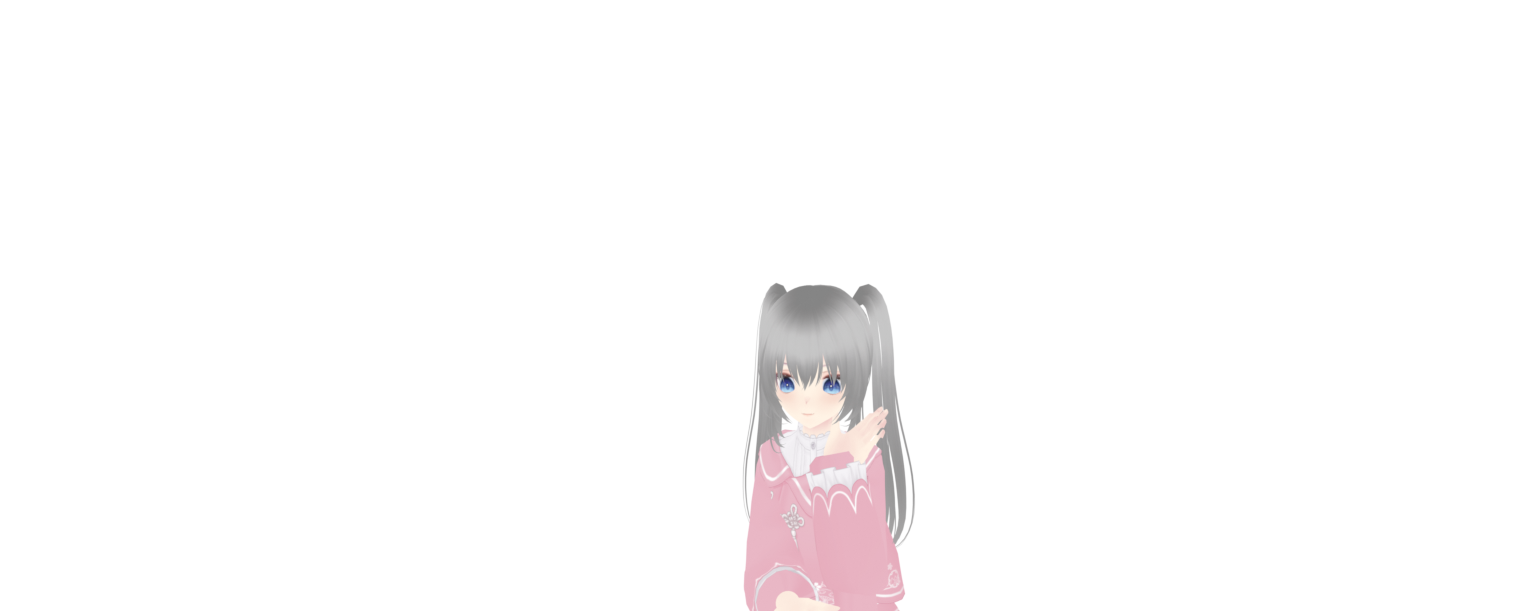
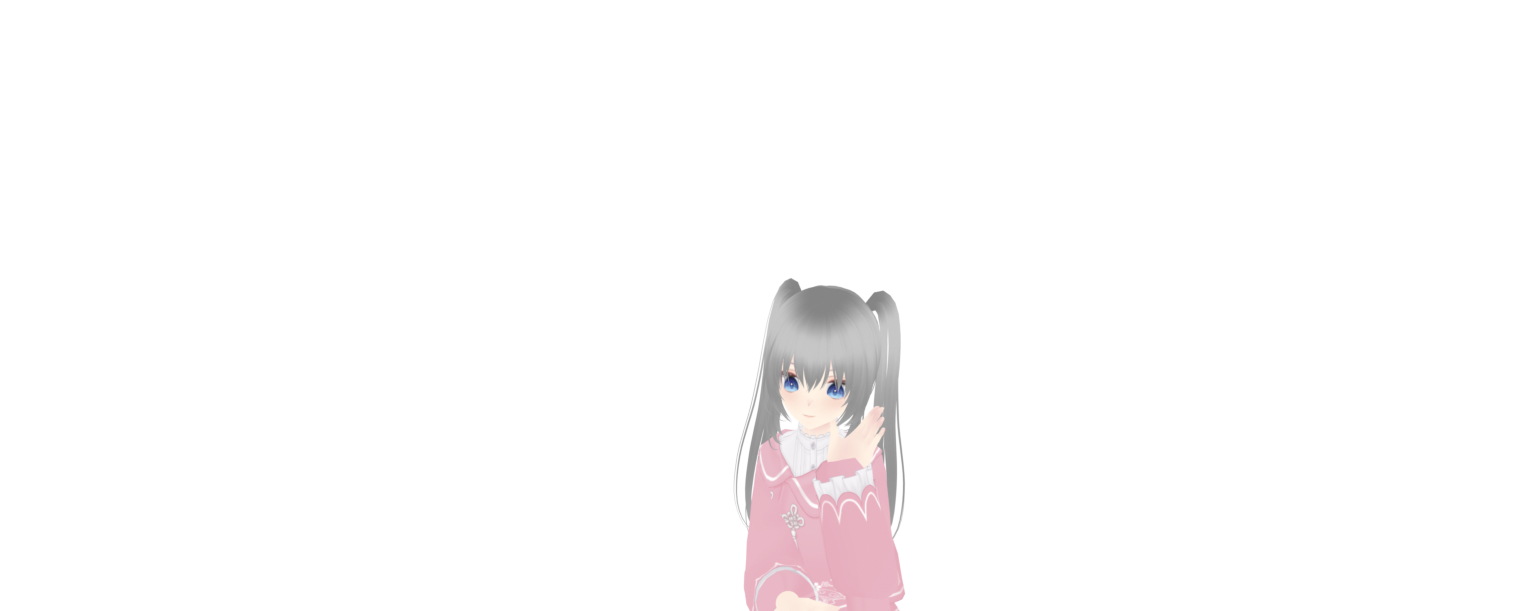
钉住托腮素材和代码的一致性
1× 兼容那两张上半身停在 CHIN_* 定稿前的参数上（2× 发布集是新的，
逐字节相同）。回退路径因此会画出另一个姿势。

- chin_check.py 补一条：这次渲的终态 vs Assets 里那张，结构性差分必须为 0。
  拿旧素材试过报 3461，判据抓得住
- leg_frames.py --chin-only：只重出近景那两张 1×，不动腿和常态上半身
- CloseUpStrip.cellW 330 → 720（普通窗口的最小宽度）。330 太小，
  气泡被 penned 夹到她脸上，判据报的是真实窗口里不可能发生的毛病
- 记下松拳托腮那一族做不出来：六个变体全部压到眼睛（可见顶点 98…207，
  p03 是 0），是机位的几何上限，不是参数没调好

Changed region(s): [[0.4688, 0.4354, 0.5938, 0.9018]]

diff --git a/Sources/WithSnozzy/App/Snapshot.swift b/Sources/WithSnozzy/App/Snapshot.swift
@@ -1701,7 +1701,14 @@ private struct CloseUpStrip: View {
     let headphones: Bool
 
     /// 每格画多宽。窗口是 3:2，按这个宽度反推高度。
-    private static let cellW: CGFloat = 330
+    ///
+    /// **必须是真实窗口能达到的最小宽度**（`WindowMode.normal.minimumSize`
+    /// 的 720），不能为了出图小就随手给 330。气泡和摸头热区是按窗口尺寸
+    /// 算位置再被 `SceneCamera.penned` 夹进窗口的，格子一小，夹取就把气泡
+    /// 压到她脸上——判据于是报出一个真实窗口里**不可能发生**的毛病。
+    /// 反过来也一样：格子给大了，只在小窗口才露的毛病就照不出来。
+    /// 和第 69 条同一个道理，判据画的必须是真的会上屏的那个尺寸。
+    private static let cellW: CGFloat = 720
     /// nil 是真实常态，-1 是发布的 2× 常态起点，随后八张中间帧和终态。
     private static let samples: [Int?] = [nil, -1]
         + (0...CloseUp.transitionFrames).map(Optional.some)

diff --git a/Scripts/leg_frames.py b/Scripts/leg_frames.py
@@ -106,6 +106,67 @@ def chin_seam(chin_path, ref_path, desk_path, seam):
     return max(seam, min(row, int(ys.max()) + 1))
 
 
+def chin_only(a, seam):
+    """只重出近景那两张 1× 上半身，腿和常态上半身原样不动。
+
+    改了 `pose.CHIN_*` 之后，需要重出的只有托腮那几张——`settle` 没变，
+    腿、常态上半身、面部贴片全都还是对的。但 `render_closeup.py` 的输出
+    目录里没有 `snozzy_<姿势>.png`，整条主路会直接报错；而为了这两张去
+    重渲一整套姿势要多花三分钟，还会把几十个二进制文件搅进 diff，
+    更糟的是腿那一块的包围盒万一漂一个像素，`chin.json` / `hands.json`
+    的矩形合同就对不上了（`SceneAssets.loadChin` 逐字段比）。
+
+    切多深仍然问 `chin_seam()`，和主路共用同一份实现——**不许在这里
+    另写一遍裁切逻辑**（第 46 条：两处算同一件事迟早会各错各的）。
+    参照帧改用已经发布的 `snozzy_body.png`：它就是主路从中枢那张切出来的
+    缝线以上部分，和 `snozzy_{hub}.png` 在这一段逐像素相同。
+    """
+    legs_path = os.path.join(a.out, "legs.json")
+    if not os.path.exists(legs_path):
+        raise SystemExit(f"没有 {legs_path}——第一次出素材要走完整的那条路")
+    with open(legs_path) as f:
+        legs = json.load(f)
+
+    chin_src = os.path.join(a.src, "torso_chin.png")
+    if not os.path.exists(chin_src):
+        raise SystemExit(f"没有 {chin_src}（先跑 Blender/render_closeup.py）")
+
+    canvas = tuple(legs.get("canvas", [1536, 1024]))
+    if Image.open(chin_src).size != canvas:
+        raise SystemExit(f"{chin_src} 是 {Image.open(chin_src).size}，"
+                         f"legs.json 的画布是 {canvas}——1× 那一趟才走这条路")
+
+    # 参照帧只取缝线以上，`chin_seam` 也只在那一段之上找差异；
+    # 用发布出来的上半身，就不需要目录里有整幅的姿势图。
+    ref = os.path.join(a.out, "snozzy_body.png")
+    if not os.path.exists(ref):
+        raise SystemExit(f"没有 {ref}——第一次出素材要走完整的那条路")
+    padded = os.path.join(a.src, "_ref_body_padded.png")
+    with Image.open(ref) as src:
+        full = Image.new("RGBA", canvas)
+        full.paste(src.convert("RGBA"), (0, 0))
+        full.save(padded)
+
+    chin_row = chin_seam(chin_src, padded, a.desk, seam)
+    if chin_row != legs.get("chinSeam"):
+        raise SystemExit(
+            f"缝线变了：legs.json 是 {legs.get('chinSeam')}、这次量出来 {chin_row}。"
+            "chin.json / hands.json 的矩形合同会对不上，要走完整的那条路重出。")
+
+    box = (0, 0, canvas[0], chin_row)
+    total = 0
+    for src, dst in ((chin_src, "snozzy_body_chin.png"),
+                     (os.path.join(a.src, "torso_chin_headphones.png"),
+                      "snozzy_body_chin_headphones.png")):
+        if not os.path.exists(src):
+            raise SystemExit(f"没有 {src}")
+        Image.open(src).convert("RGBA").crop(box).save(os.path.join(a.out, dst))
+        total += os.path.getsize(os.path.join(a.out, dst))
+    os.remove(padded)
+    print(f"LEGS 只重出近景 1× 上半身两张，切到第 {chin_row} 行，"
+          f"{total / 1024:.0f} KB；腿和常态上半身没动")
+
+
 def main():
     ap = argparse.ArgumentParser()
     ap.add_argument("src", help="render_poses.py / render_layers.py 的输出目录")
@@ -113,8 +174,13 @@ def main():
     ap.add_argument("--seam", type=int, default=SEAM)
     ap.add_argument("--desk", default="Assets/desk.png",
                     help="桌面层，用来算近景那张上半身该切多深")
+    ap.add_argument("--chin-only", action="store_true",
+                    help="只重出近景那两张 1× 上半身，别动腿和常态上半身")
     a = ap.parse_args()
     seam = a.seam
+
+    if a.chin_only:
+        return chin_only(a, seam)
 
     poses = [os.path.basename(p)[7:-4]
              for p in sorted(glob.glob(os.path.join(a.src, "snozzy_*.png")))]

diff --git a/Blender/render_chin_candidates.py b/Blender/render_chin_candidates.py
@@ -32,19 +32,34 @@ os.makedirs(OUT, exist_ok=True)
 # contact strategies, not six cosmetic copies; the metrics and the full-frame
 # renders are used together to choose one.
 # splay 为 None 时用 pose.py 里的 CHIN_FINGER_SPLAY。
+#
+# 第一轮（p01…p06，已选 p03）**六个都是同一种策略**：四指基本伸直、
+# 沿着脸颊往斜上方指，靠指尖去够颧骨。指标全绿，画面上仍读成"举着一只手
+# 挡在脸边"——因为手掌在这个机位下比脸还长，指尖够到脸颊时手根还悬在
+# 下颌外面，下巴并没有"压"在任何东西上。
+#
+# 这一轮换一族：**把四指收成松拳，让下颌坐在食指那一节上**。
+# 手一握短一半，才塞得进下颌到肩之间那段，而不会一路顶到眼睛
+# （`hand_dir` 的 X 分量往里收会盖住眼睛，第一轮就是被这条挡回去的）。
 CANDIDATES = [
-    ("p01_soft", .12, .030, (.044, -.068, -.112), (.50, -.08, .82), -.12,
-     (.24, .48, .78, 1.04), -.24, (.20, .05, -.06, -.16)),
-    ("p02_low",  .15, .040, (.040, -.074, -.118), (.47, -.10, .85), -.16,
-     (.28, .58, .88, 1.18), -.28, (.22, .05, -.07, -.18)),
-    ("p03_contact", .17, .050, (.034, -.070, -.115), (.44, -.10, .86), -.18,
+    # 松拳，腕抬到下颌正下方
+    ("q1_fist_low", .17, .045, (.030, -.070, -.105), (.42, -.10, .88), -.18,
+     (1.05, 1.15, 1.25, 1.35), -.30, (.10, .03, -.03, -.08)),
+    # 拳再往里一点、掌面更朝脸
+    ("q2_fist_in", .18, .045, (.024, -.068, -.100), (.36, -.12, .90), -.25,
+     (1.10, 1.20, 1.30, 1.40), -.35, (.08, .02, -.03, -.07)),
+    # 下颌压在指节上：腕最高，掌面转向脸
+    ("q3_knuckle", .19, .050, (.028, -.072, -.096), (.30, -.14, .92), -.30,
+     (0.95, 1.08, 1.20, 1.32), -.40, (.10, .03, -.03, -.08)),
+    # 半握：食指还留一点伸展贴着颊线，其余收拢
+    ("q4_halffist", .17, .045, (.030, -.070, -.108), (.40, -.10, .88), -.22,
+     (0.75, 0.95, 1.15, 1.30), -.32, (.14, .04, -.04, -.12)),
+    # 收得最紧、位置最高，看会不会顶到眼睛
+    ("q5_deep", .20, .050, (.026, -.074, -.092), (.34, -.16, .90), -.28,
+     (1.15, 1.25, 1.32, 1.42), -.42, (.08, .02, -.02, -.06)),
+    # 对照：p03 原样，用来确认这一轮真的更好而不是换个样子
+    ("q6_p03_ref", .17, .050, (.034, -.070, -.115), (.44, -.10, .86), -.18,
      (.30, .62, .92, 1.22), -.30, (.24, .06, -.07, -.19)),
-    ("p04_wrist", .17, .035, (.028, -.066, -.110), (.40, -.11, .88), -.20,
-     (.34, .66, .96, 1.26), -.32, (.26, .07, -.08, -.20)),
-    ("p05_open", .14, .045, (.036, -.076, -.116), (.56, -.06, .78), -.10,
-     (.20, .42, .72, .98), -.22, (.18, .04, -.05, -.14)),
-    ("p06_support", .18, .040, (.031, -.072, -.113), (.42, -.09, .88), -.22,
-     (.38, .72, 1.00, 1.30), -.36, (.28, .08, -.09, -.22)),
 ]
 
 

diff --git a/Scripts/chin_check.py b/Scripts/chin_check.py
@@ -336,6 +336,33 @@ def main():
              else "✗ 抬起来的手漏到桌面层上面了" if extra
              else "✗ 那只手根本没抬起来"))
 
+    # --- 4. 库里那张是不是这次渲的 -------------------------------------
+    # 这条是补第 70 条那个洞。上面所有判据的输入**都是刚渲出来的图**，
+    # 于是"`pose.py` 改了、素材忘了重出"这件事一条都查不到：代码对、
+    # 判据全绿、画面还是老样子。实测那次差了 3461 个结构性像素。
+    #
+    # 所以这里回头看一眼 `Assets/`：把这次渲的终态按发布时的缝线切一刀，
+    # 和库里那张比。**应该逐像素相同**——它本来就该是同一次渲的产物。
+    published = os.path.join(a.assets, "snozzy_body_chin2x.png" if scale == 2
+                             else "snozzy_body_chin.png")
+    if not os.path.exists(published):
+        ok = False
+        print(f"✗ 库里没有 {published}——先发布一次素材")
+    else:
+        have = load(published)
+        rows = have.shape[0]
+        if have.shape[1] != chin.shape[1] or rows > chin.shape[0]:
+            ok = False
+            print(f"✗ {published} 是 {have.shape[:2][::-1]}，"
+                  f"和这次渲的 {chin.shape[:2][::-1]} 对不上")
+        else:
+            stale = int(diff(chin[:rows], have).sum())
+            ok &= stale == 0
+            print(f"库里的终态 vs 这次渲的：差 {stale} 个结构性像素  "
+                  + ("✓ 素材就是这份代码渲的"
+                     if stale == 0 else
+                     "✗ 素材比代码旧（第 70 条）——把近景那整段重出一遍"))
+
     print("CHIN " + ("全部通过" if ok else "有不合格项"))
     return 0 if ok else 1
 

diff --git a/Blender/render_closeup.py b/Blender/render_closeup.py
@@ -19,12 +19,21 @@
 命名刻意不用 `snozzy_*` 开头：`Scripts/leg_frames.py` 是按
 `snozzy_*.png` 通配去认腿部姿势的，叫成 snozzy 开头会被当成第六套腿姿。
 
-## 为什么托腮只动一条胳膊
+## 动一条胳膊 + 头，脊柱不动
 
-上半身那张图是**所有腿帧共用的**，头是面部贴片的基准。脊柱一动，
-上半身和腿在缝线处就对不上；头一动，眨眼和嘴的贴片就贴到脸外面去
-（第 7/22 条）。所以 `pose.chin_rest` 只动一条胳膊，"托腮"这件事
-全靠手的位置去读——判据在 `Blender/measure_chin.py`。
+上半身那张图是**所有腿帧共用的**，脊柱一动上下半身在缝线处就对不上。
+头以前也锁着（面部贴片存的是画布上固定矩形里的像素，第 7/22 条），
+结果手悬在脸侧、头笔直，读不出托腮——现在头跟着一起歪，
+面部贴片由 `render_face.py … chin` 在**同一条动作**上逐帧重渲：
+00…08 每一档各出一套 13 块，矩形跟着那一格的脸走，所以整段动作里
+她照样眨眼、说话。判据在 `Blender/measure_chin.py`（3D）和
+`Scripts/chin_check.py`（像素）。
+
+**改了 `pose.CHIN_*` 就必须把这两套一起重出**——只重出身体、不重出贴片，
+贴片会按旧头姿贴到新的脸上，比不动还难看。
+
+耳机是在 `settle` 之后、`chin_rest` 之前按头骨建的，骨骼父子关系
+让它跟着歪过去的头刚性移动，不用为每个 amount 重建。
 """
 import bpy, os, sys
 sys.path.insert(0, os.path.dirname(os.path.abspath(__file__)))

diff --git a/HANDOFF.md b/HANDOFF.md
@@ -1123,6 +1123,57 @@ stdio 那条路必须在 `main.swift` 里、在**任何 AppKit 代码之前**接
 近景现在不做模糊了（用户说直接切近就行）。真要景深，得让"角色以外的
 所有层"用同一个参数。
 
+**70. 同一个姿势存了两份素材，只有一份跟着代码走了。**
+`pose.py` 的 `CHIN_*` 定稿之后，2× 发布集（真正上屏的那套）重出了，
+**1× 兼容那两张没有**——`snozzy_body_chin.png` / `_headphones.png` 停在
+定稿前的参数上。实测拿当前代码重渲一张 1× 终态，和库里那张差 **3461 个
+结构性像素**（腐蚀过，不是 DITHERED 噪点）；同一次比 2× 那套是**逐字节相同**的。
+
+影响没有听起来那么大：1× 那两张只在 2× 发布集**没通过校验**时才画
+（`RenderedSnozzy.torsoLayer` 的回退分支）。但那正是最坏的时候——
+素材本来就出问题了，回退还给你一个**另一个姿势**。
+
+为什么没人发现：这条链上的判据**全都拿刚渲出来的图当输入**。
+`measure_chin.py` 在 3D 里现算，`chin_check.py` 比 `/tmp/closeup*/` 里的原图，
+`chin_frames.py` 比同一批原图。**没有一条回头看 `Assets/` 里那张是不是
+同一次渲的**，于是"代码对、判据绿、回退路径是旧姿势"可以同时成立。
+
+`chin_check.py` 现在补了这一条（最后一行）：把这次渲的终态按发布缝线切一刀，
+和 `Assets/` 里那张做结构性差分，**必须是 0**。拿旧素材试过，报 3461，抓得住。
+和第 46 条同一族：**两处存着同一件事，就得有一条判据把它们钉在一起。**
+
+配套：`Scripts/leg_frames.py --chin-only` 只重出近景那两张 1× 上半身
+（`render_closeup.py` 的输出目录里没有 `snozzy_<姿势>.png`，走主路会直接报错；
+而为这两张重渲一整套姿势要多花三分钟，还会把腿那一块的包围盒搅动一个像素、
+连带让 `chin.json` / `hands.json` 的矩形合同对不上）。它复用同一个
+`chin_seam()`，并且缝线一变就直接报错要你走完整那条路。
+
+**71. 「下巴坐在拳头上」这个托腮在这个机位下做不出来，别再试第三轮。**
+p03 那版（四指沿颊线斜上、指尖压在颧骨下）看着仍不像"托"，很自然会想到
+换成松拳、让下颌压在食指那节上——那才是插画里最标准的托腮。
+**试过了，六个变体全废**，而且废的原因是几何性的，不是参数没调好：
+
+手掌在这个机位下比脸还长。手从下外方伸过来，要么指尖停在颧骨外侧
+（p03，眼睛干净），要么把手收短、整只手往里挪到下颌底下——**一挪就压到眼睛**。
+实测可见的手部顶点落进眼区：q1 105 个、q4 98 个、q3 187 个、q5 207 个，
+而 p03 是 **0**。中间没有安全带：`hand_dir` 的 X 分量往里收一点，
+指节就从颧骨爬到眼下。
+
+所以这个机位的上限就是 p03。真想要"下颌压在手上"，要动的是**相机**
+（换一个更侧、更低的近景机位，让手从画面外侧进来），不是 `CHIN_*` 那几个数。
+`render_chin_candidates.py` 里那一族参数留着，别再跑一遍。
+
+**72. 判据画的尺寸必须是真实窗口能达到的尺寸。**
+`--closeup` 那张图里，气泡结结实实盖在她脸上——而真实窗口里根本不会发生。
+`CloseUpStrip.cellW` 当时是 330，比普通窗口的最小宽度（720）还小一半；
+气泡的位置是按窗口尺寸算完再被 `SceneCamera.penned` 夹进窗口的，
+格子一小，夹取就把它压到脸上。算了一遍：640 宽以上就不再重叠，
+而窗口最小是 720，**这个毛病不可能上屏**。
+
+差点因此去改气泡的锚点——那会把真实窗口里本来正确的位置改坏。
+反过来同样成立：格子给大了，只在小窗口才露的毛病就照不出来。
+和第 69 条一个道理：判据和真实画面**尺寸也要对齐**，不只是层序对齐。
+
 ## 四、验证纪律
 
 这个项目里"看着对"和"真的对"经常不是一回事，所以**把主观的东西做成可测的**：
@@ -1756,16 +1807,23 @@ python3 Scripts/hand_frames.py /tmp/hands2x --out Assets
 $B --background --factory-startup --python Blender/measure_hands.py -- Snozzy.vrm
 
 # 近景（托腮）：1× 只验兼容源序列，2× 生成并验发布合同
+# **改了 pose.py 的 CHIN_* 就得把下面整段跑完**，只改代码不重出素材，
+# 画面上还是老样子，而且所有判据都是绿的（第 70 条）
 $B --background --factory-startup --python Blender/render_closeup.py -- Snozzy.vrm /tmp/closeup1x
-python3 Scripts/leg_frames.py /tmp/closeup1x --out Assets
-python3 Scripts/hand_frames.py /tmp/closeup1x --out Assets
+python3 Scripts/leg_frames.py /tmp/closeup1x --out Assets --chin-only
 python3 Scripts/chin_check.py /tmp/closeup1x
+#   ↑ --chin-only 只重出近景那两张 1× 上半身；腿和常态上半身没变就别动它们，
+#     动了会把腿那一块的包围盒搅动一个像素，chin.json 的矩形合同就对不上
 $B --background --factory-startup --python Blender/render_closeup.py -- Snozzy.vrm /tmp/closeup2x 2
 python3 Scripts/chin_frames.py /tmp/closeup2x --out Assets  # base/逐帧/连续性/chin.json
 
-# 近景 2× 面部贴片：每个 00…08 姿态各自 13 块
+# 近景 2× 面部贴片：每个 00…08 姿态各自 13 块（约 12 分钟，126 张）
+# **必须和上面的身体帧同一次改动一起重出**——只重出身体，贴片会按旧头姿
+# 贴到新的脸上，比不动还难看
 $B --background --factory-startup --python Blender/render_face.py -- Snozzy.vrm /tmp/facechin2x 2 chin
 python3 Scripts/face_patches.py /tmp/facechin2x --out Assets --prefix facechin2x --chin
+python3 Scripts/headphone_masks.py --assets Assets   # 耳罩发光的 mask 跟着歪掉的头走
+python3 Scripts/chin_check.py /tmp/closeup2x --assets Assets --facechin /tmp/facechin2x
 python3 Scripts/chin_check.py /tmp/closeup2x --assets Assets --facechin /tmp/facechin2x
 
 # 普通 2× 面部贴片（同样固定 13 个变体）
